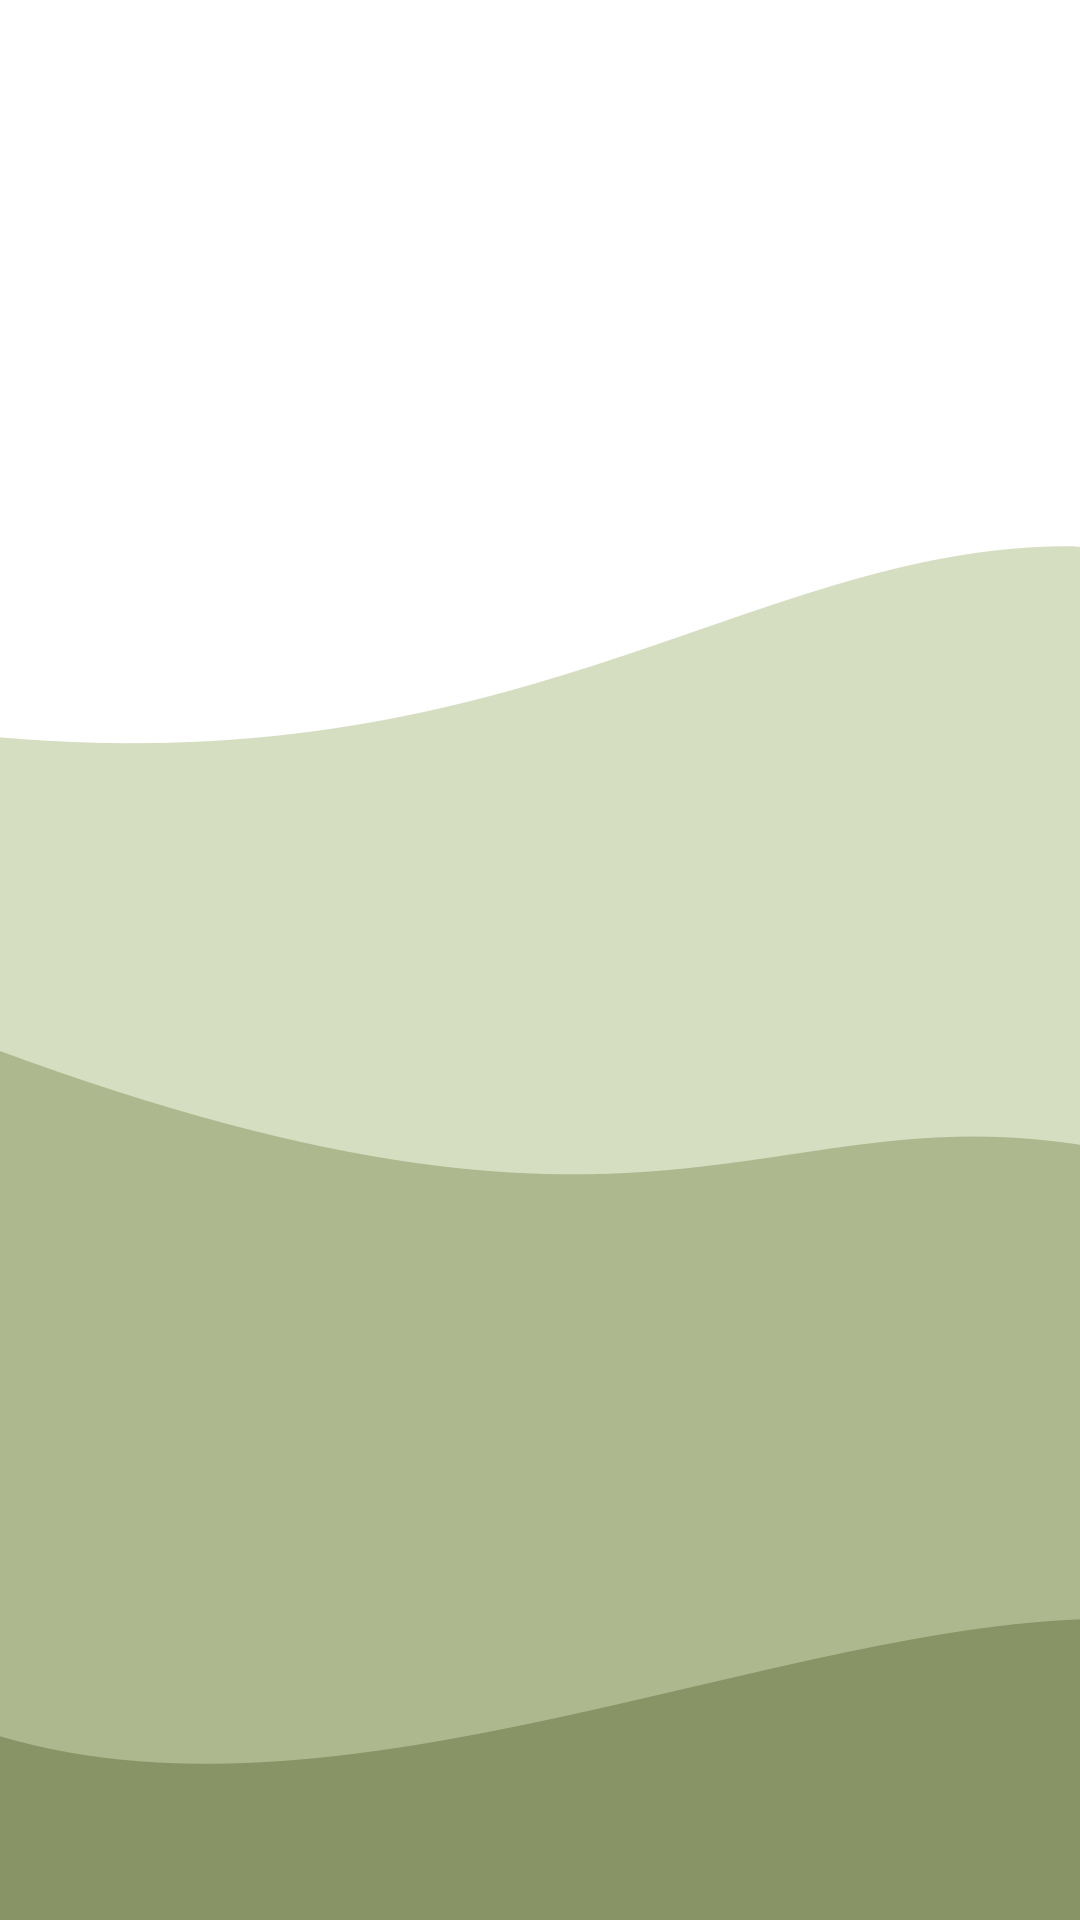
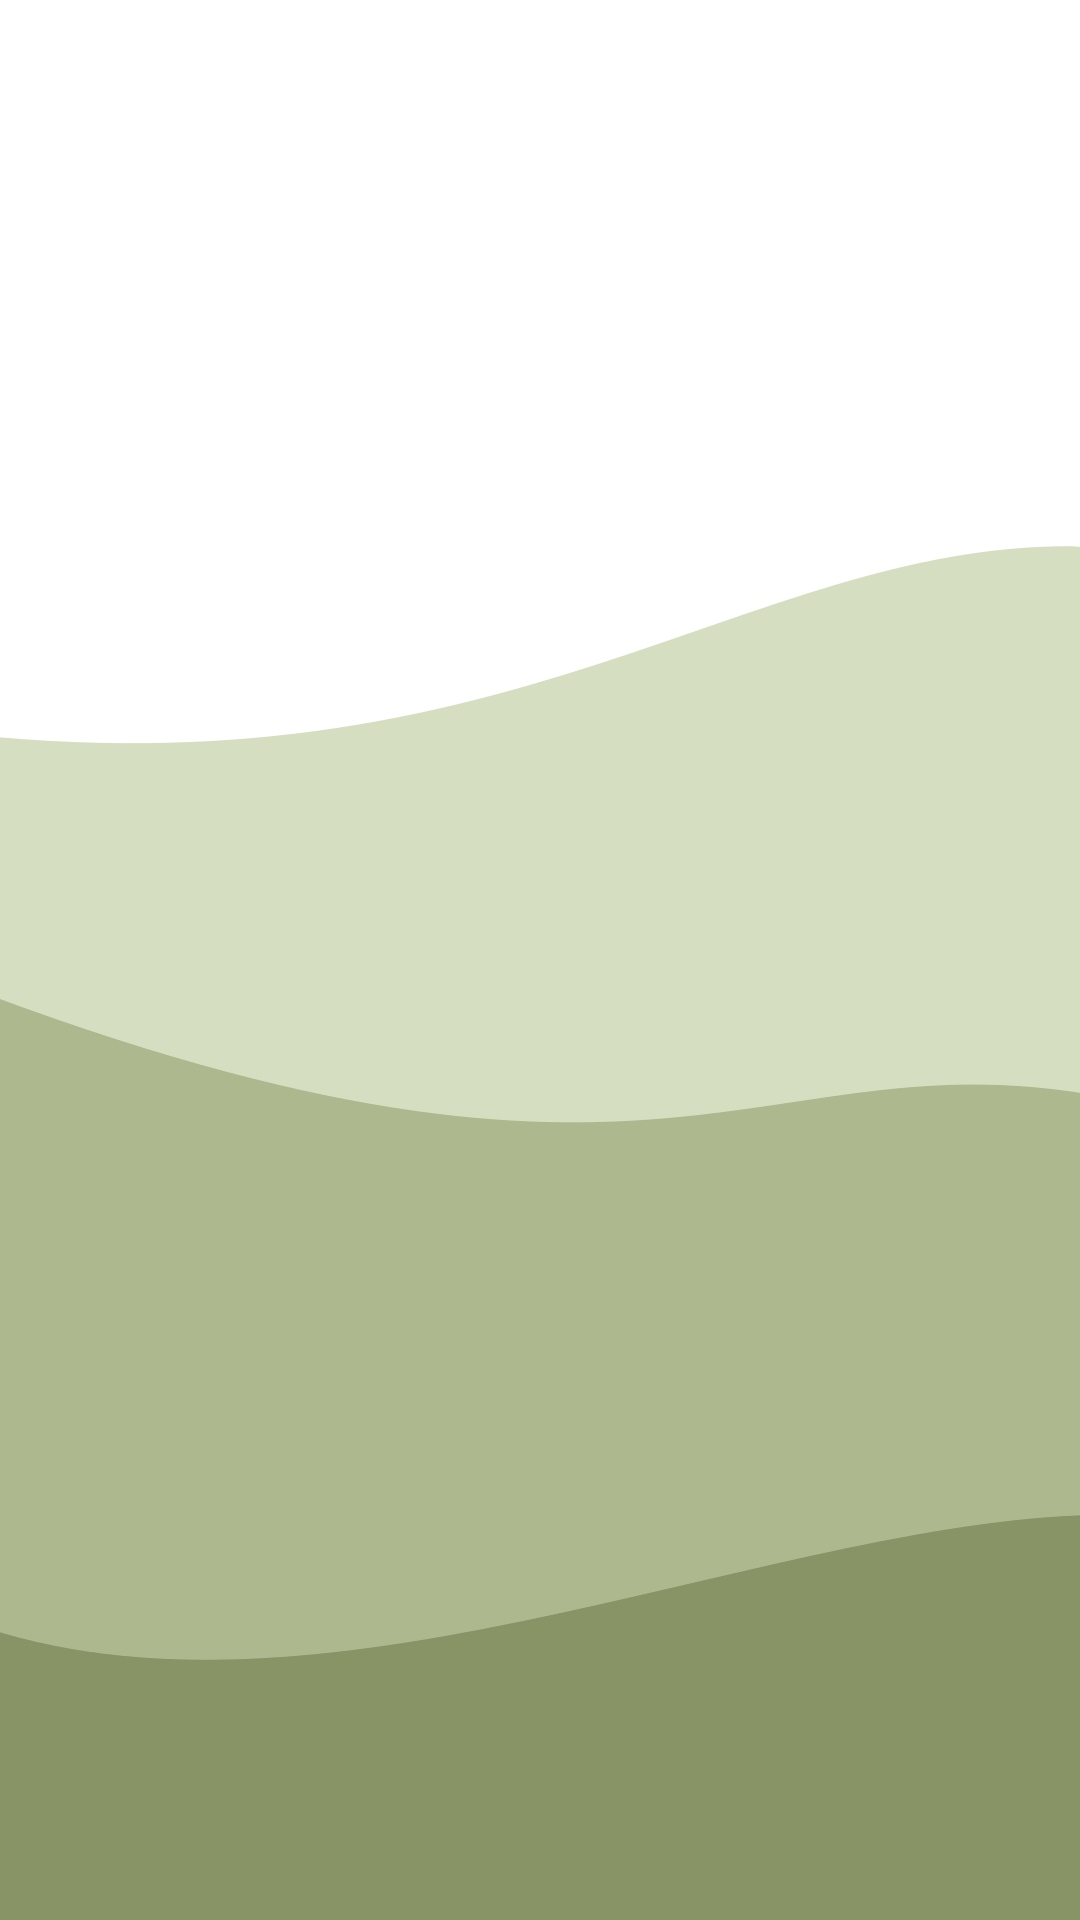
finished the styling on pop up and started the add story pop up. Also changed the bg

Changed region(s): [[0.0, 0.7812, 1.0, 0.9375], [0.0, 0.5, 1.0, 0.625]]

diff --git a/components/fireBase/story.js b/components/fireBase/story.js
@@ -3,6 +3,7 @@ import {
   Modal,
   View,
   Text,
+  TextInput,
   Image,
   StyleSheet,
   Pressable,
@@ -13,13 +14,14 @@ import {
 import logo512 from "../../assets/logo512.png";
 import addPlus from "../../assets/Icons/addPlus.png";
 import arrowBack from "../../assets/Icons/arrowback.png";
-import arrowBack2 from "../../assets/Icons/arrowback2.png";
 import Constants from "expo-constants";
 
 import buttonStyling from "../../Styles/ButtonStyling";
 const Story = (props) => {
   const { item, onClose } = props;
   const [showStory, setShowStory] = useState(false);
+  const [addStory, setAddStory] = useState(false);
+
   return (
     <>
       <View style={styles.container}>
@@ -34,10 +36,10 @@ const Story = (props) => {
       {showStory && (
         <Modal visible={true} animationType="slide" transparent={true}>
           <ImageBackground
-            source={require("../../assets/bg.png")}
-            resizeMode="cover"
+            source={require("../../assets/bg2.png")}
             style={{
               flex: 1,
+              marginTop: Constants.statusBarHeight + 80,
               position: "absolute",
               bottom: 0,
               left: 0,
@@ -50,7 +52,7 @@ const Story = (props) => {
                 style={styles.arrow}
                 onPress={() => setShowStory(false)}
               >
-                <Image source={arrowBack2} style={styles.addStory} />
+                <Image source={arrowBack} style={styles.addStory} />
               </TouchableOpacity>
               <ScrollView style={styles.ScrollViewcontainer}>
                 <Text style={styles.name}>
@@ -76,10 +78,58 @@ const Story = (props) => {
                       </Text>
                     </View>
                   ))}
+                <View
+                  style={{
+                    borderBottomColor: "black",
+                    borderBottomWidth: StyleSheet.hairlineWidth,
+                    marginVertical: 20,
+                  }}
+                >
+                  <Text style={styles.commentSectionText}>
+                    Historier fra andre brugere
+                  </Text>
+                </View>
+                <View style={styles.commentSection}>
+                  {item.comments &&
+                    item.comments.map((comments, index) => (
+                      <View key={index} style={styles.comment}>
+                        <Text style={styles.commentTitle}>
+                          {comments.title}
+                        </Text>
+                        <Text style={styles.commentDescription}>
+                          {comments.comment}
+                        </Text>
+                      </View>
+                    ))}
+                </View>
               </ScrollView>
-              <Pressable onPress={() => setShowStory(false)}>
+              <Pressable onPress={() => setAddStory(true)}>
                 <Image source={addPlus} style={styles.addStory} />
               </Pressable>
+              {addStory && (
+                <Modal visible={true} animationType="slide" transparent={true}>
+                  <View style={styles.addStoryContainer}>
+                    <TouchableOpacity
+                      style={styles.arrow}
+                      onPress={() => setAddStory(false)}
+                    >
+                      <Image source={arrowBack} style={styles.addStory} />
+                    </TouchableOpacity>
+                    <Text>Titel</Text>
+                    <TextInput
+                      onChangeText={(text) => setSearchQuery(text)}
+                      style={styles.addStoryTitle}
+                      placeholder="Search for a name..."
+                    />
+                    <Text>Skriv din historie:</Text>
+                    <TextInput
+                      style={styles.addStoryDescription}
+                      multiline={true}
+                      placeholder="Search for a name..."
+                    />
+                  </View>
+                </Modal>
+              )}
             </View>
           </ImageBackground>
         </Modal>
@@ -94,17 +144,18 @@ const styles = StyleSheet.create({
     padding: 20,
   },
   arrow: {
-    margin: 20,
+    marginLeft: 30,
+    marginTop: 20,
     width: 40,
     height: 40,
     position: "absolute",
+    zIndex: 1,
   },
   storyContainer: {
     backgroundColor: "white",
     minWidth: "90%",
     marginRight: 25,
     marginLeft: 25,
-    marginTop: Constants.statusBarHeight + 80,
     marginBottom: 25,
     alignSelf: "center",
     borderRadius: 25,
@@ -112,8 +163,7 @@ const styles = StyleSheet.create({
   ScrollViewcontainer: {
     flex: 1,
     padding: 20,
-    paddingBottom: 50,
-    marginBottom: 30,
+    marginBottom: 10,
   },
   name: {
     fontSize: 24,
@@ -137,7 +187,6 @@ const styles = StyleSheet.create({
     resizeMode: "cover",
     alignSelf: "center",
   },
-
   sectionTitle: {
     fontSize: 20,
     fontWeight: "bold",
@@ -148,6 +197,35 @@ const styles = StyleSheet.create({
     fontSize: 16,
     marginBottom: 20,
   },
+  commentSectionText: { marginBottom: 5, fontSize: 16, fontWeight: "bold" },
+  commentSection: { marginBottom: 20 },
+  comment: {
+    width: "100%",
+    flex: 1,
+    alignSelf: "center",
+    borderRadius: 20,
+    backgroundColor: "#ffffff",
+    marginBottom: 15,
+    paddingHorizontal: 8,
+    shadowColor: "#000000",
+    shadowOffset: {
+      width: 0,
+      height: 3,
+    },
+    shadowOpacity: 0.18,
+    shadowRadius: 4.59,
+    elevation: 5,
+  },
+  commentTitle: {
+    fontSize: 20,
+    fontWeight: "bold",
+    marginTop: 10,
+    marginBottom: 5,
+  },
+  commentDescription: {
+    fontSize: 14,
+    marginBottom: 20,
+  },
   closeButton: {
     fontSize: 18,
     fontWeight: "bold",
@@ -155,6 +233,31 @@ const styles = StyleSheet.create({
     marginTop: 20,
   },
   addStory: { height: 50, width: 50, alignSelf: "center", marginBottom: 10 },
+  addStoryContainer: {
+    backgroundColor: "white",
+    minWidth: "90%",
+    minHeight: 542,
+    marginTop: Constants.statusBarHeight + 80,
+    marginBottom: 25,
+    alignSelf: "center",
+    borderRadius: 25,
+    paddingTop: 80,
+    padding: 20,
+  },
+  addStoryTitle: {
+    borderColor: "green",
+    borderWidth: 1,
+    borderRadius: 20,
+    padding: 10,
+  },
+  addStoryDescription: {
+    borderColor: "green",
+    borderWidth: 1,
+    borderRadius: 20,
+    padding: 10,
+    maxWidth: "90%",
+    minHeight: "50%",
+  },
 });
 
 export default Story;

diff --git a/components/fireBase/display.js b/components/fireBase/display.js
@@ -81,7 +81,6 @@ const FirebaseDisplay = ({ dbName }) => {
     <View style={styles.container}>
       <ImageBackground
         source={require("../../assets/bg.png")}
-        resizeMode="cover"
         style={{
           flex: 1,
           position: "absolute",
